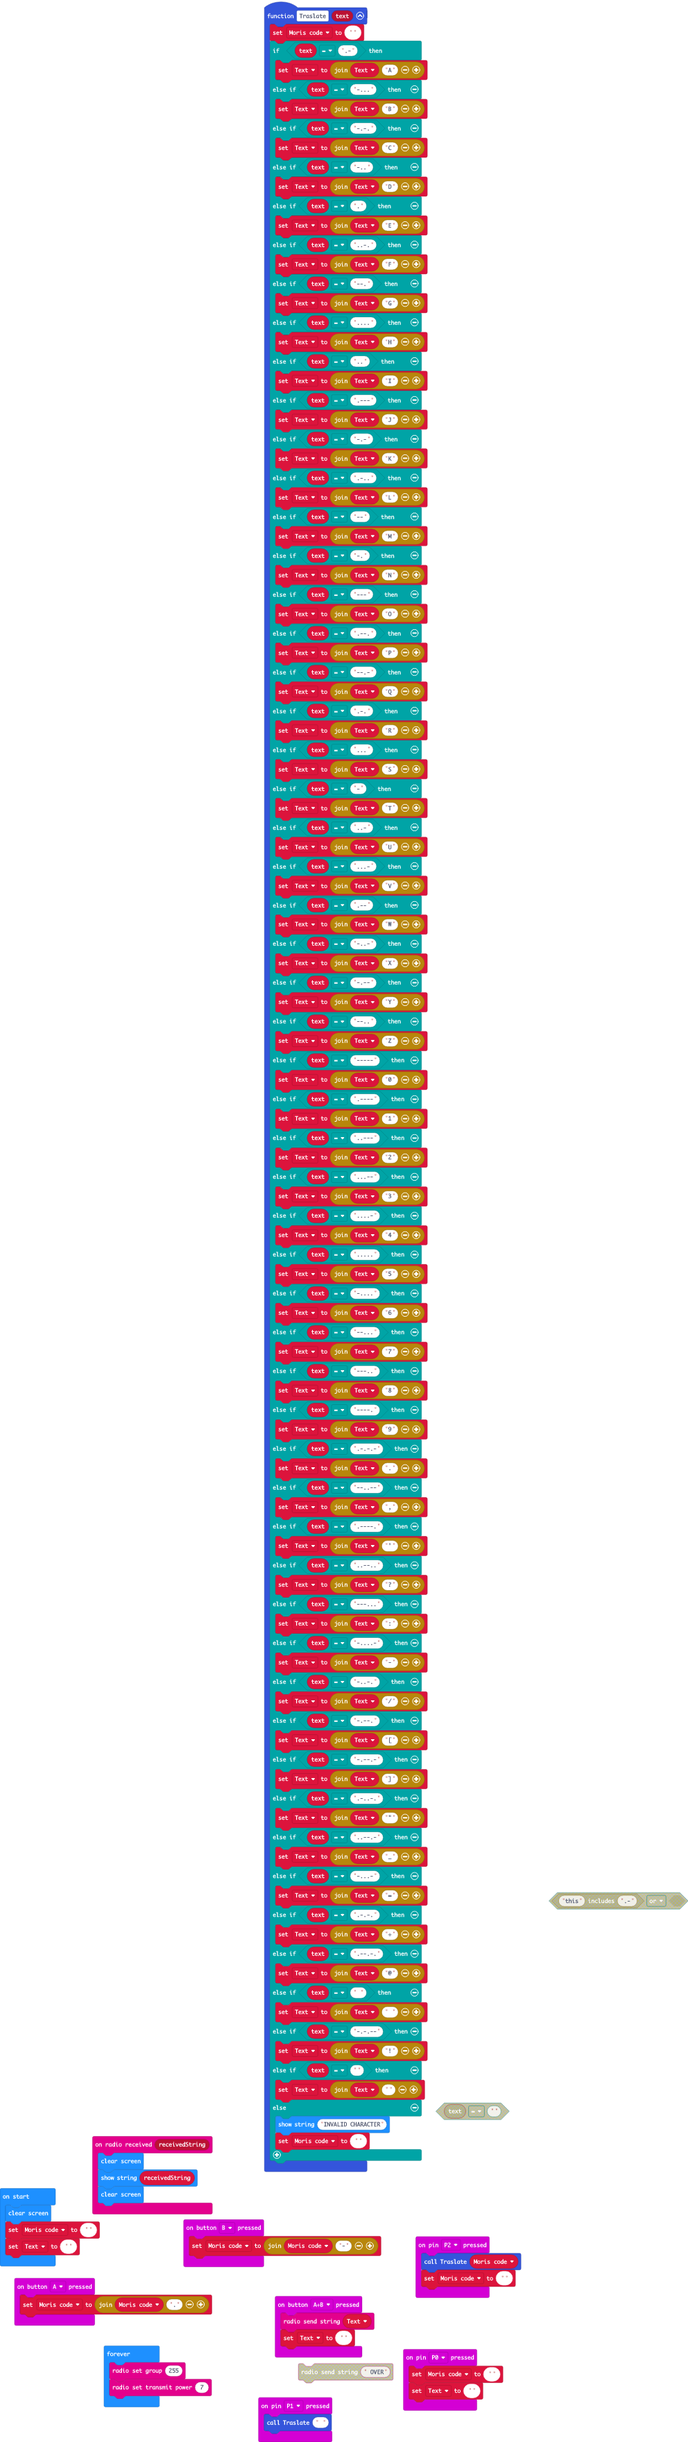
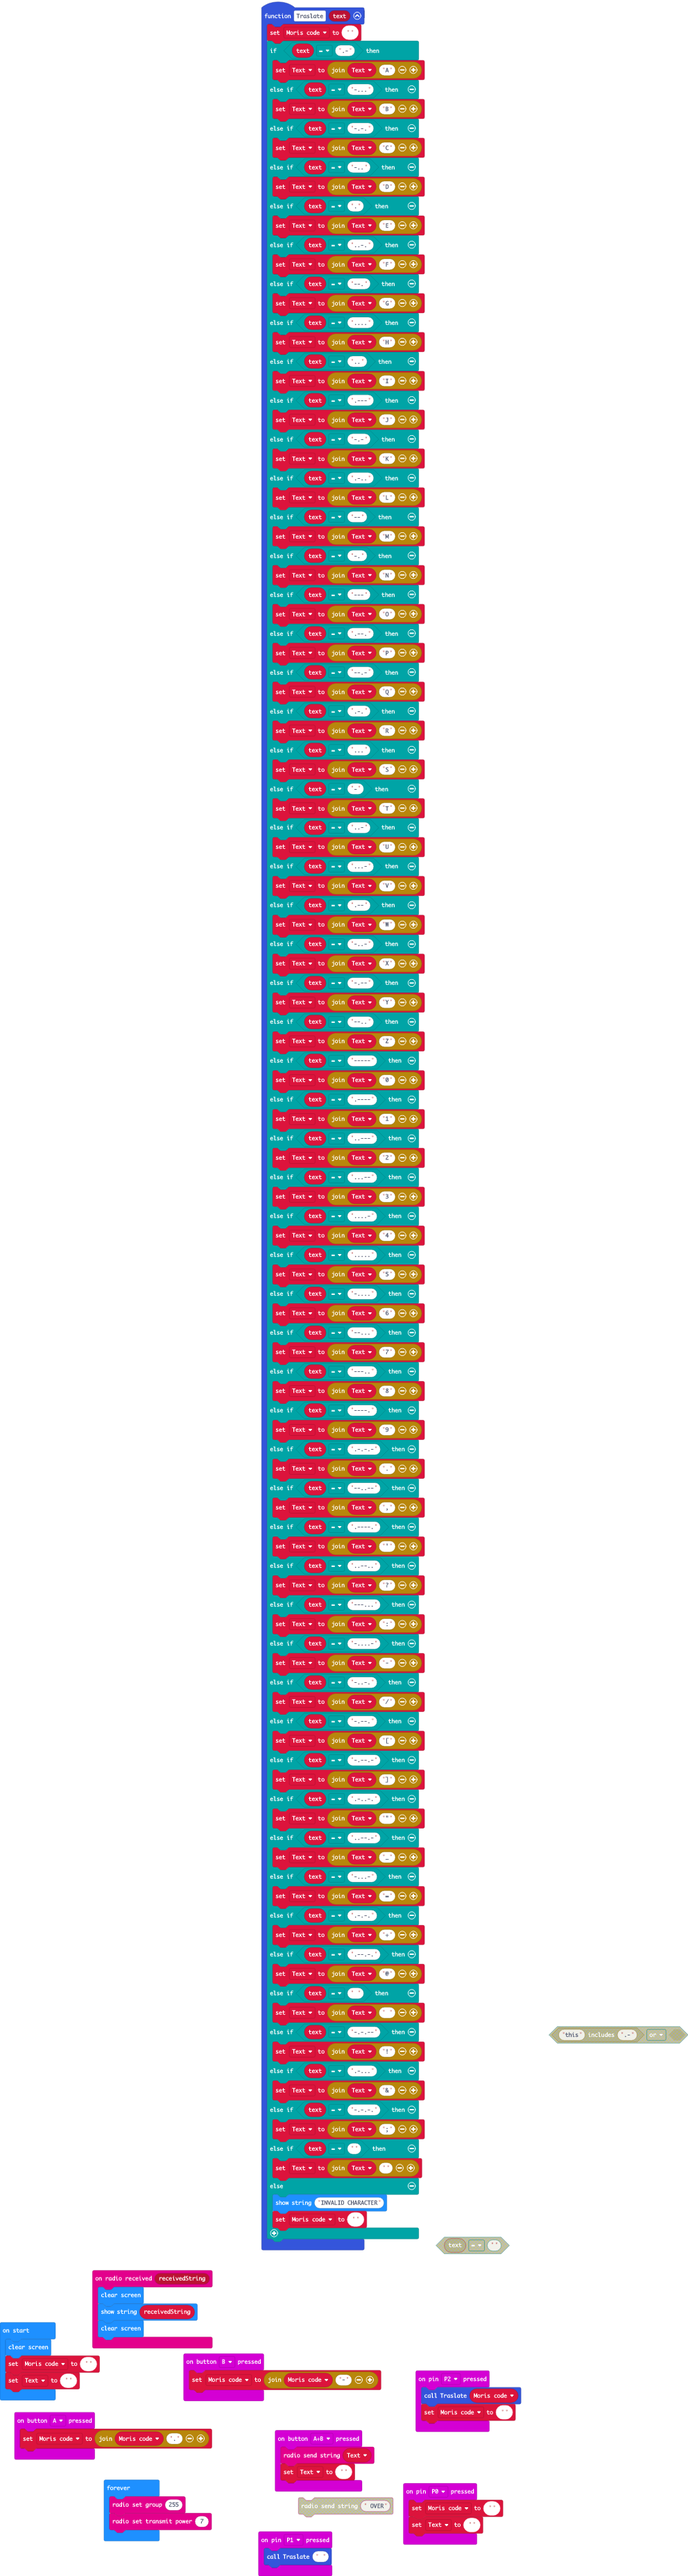
Update main.blocks, main.ts

Changed region(s): [[0.0, 0.0, 0.75, 1.0], [0.5938, 0.9062, 0.75, 1.0], [0.8125, 0.75, 1.0, 0.8125]]

diff --git a/main.ts b/main.ts
@@ -111,6 +111,10 @@ function Traslate (text: string) {
         Text = "" + Text + " "
     } else if (text == "-.-.--") {
         Text = "" + Text + "!"
+    } else if (text == ".-...") {
+        Text = "" + Text + "&"
+    } else if (text == "-.-.-.") {
+        Text = "" + Text + ";"
     } else if (text == "") {
         Text = "" + Text + ""
     } else {
